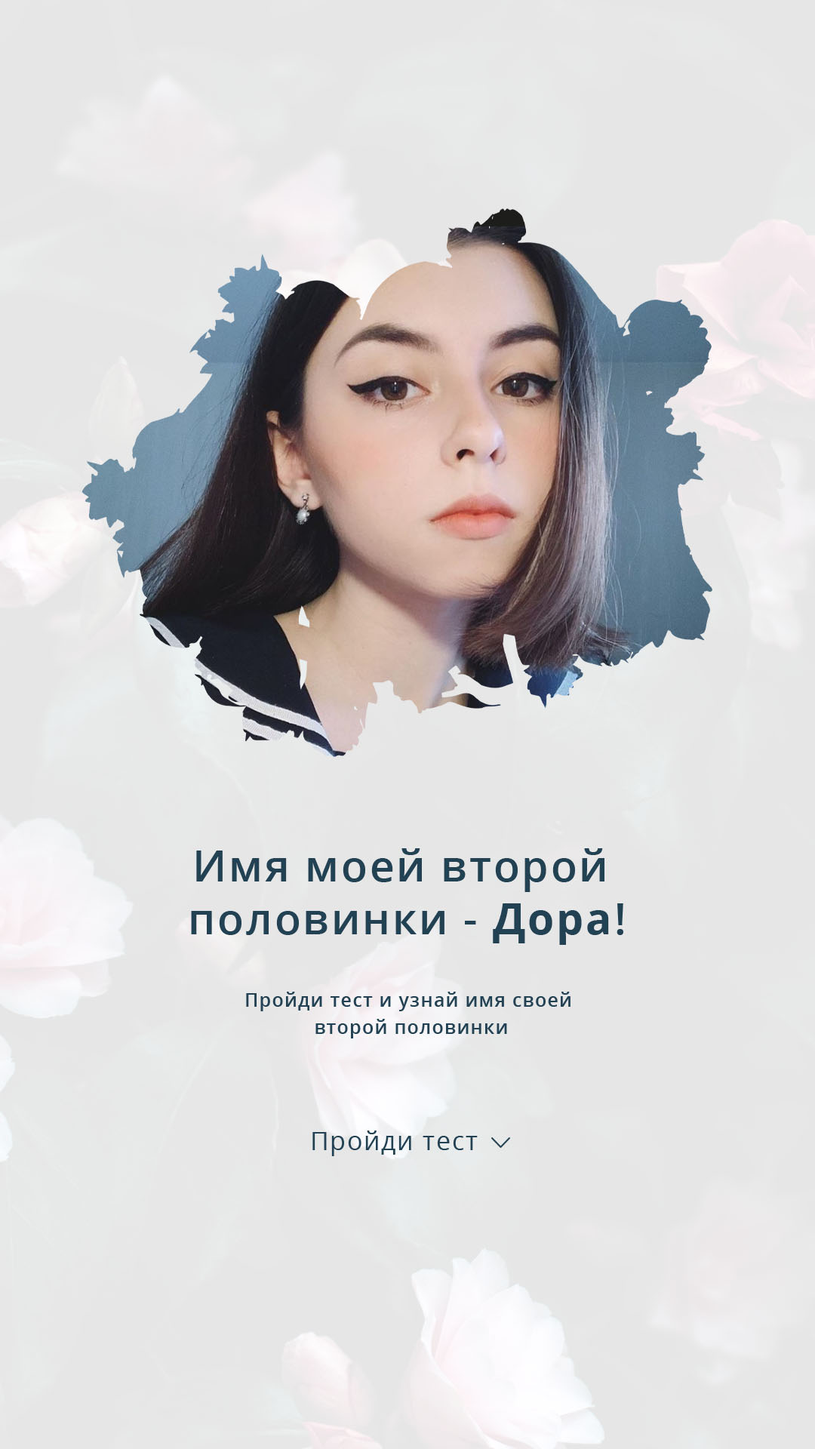
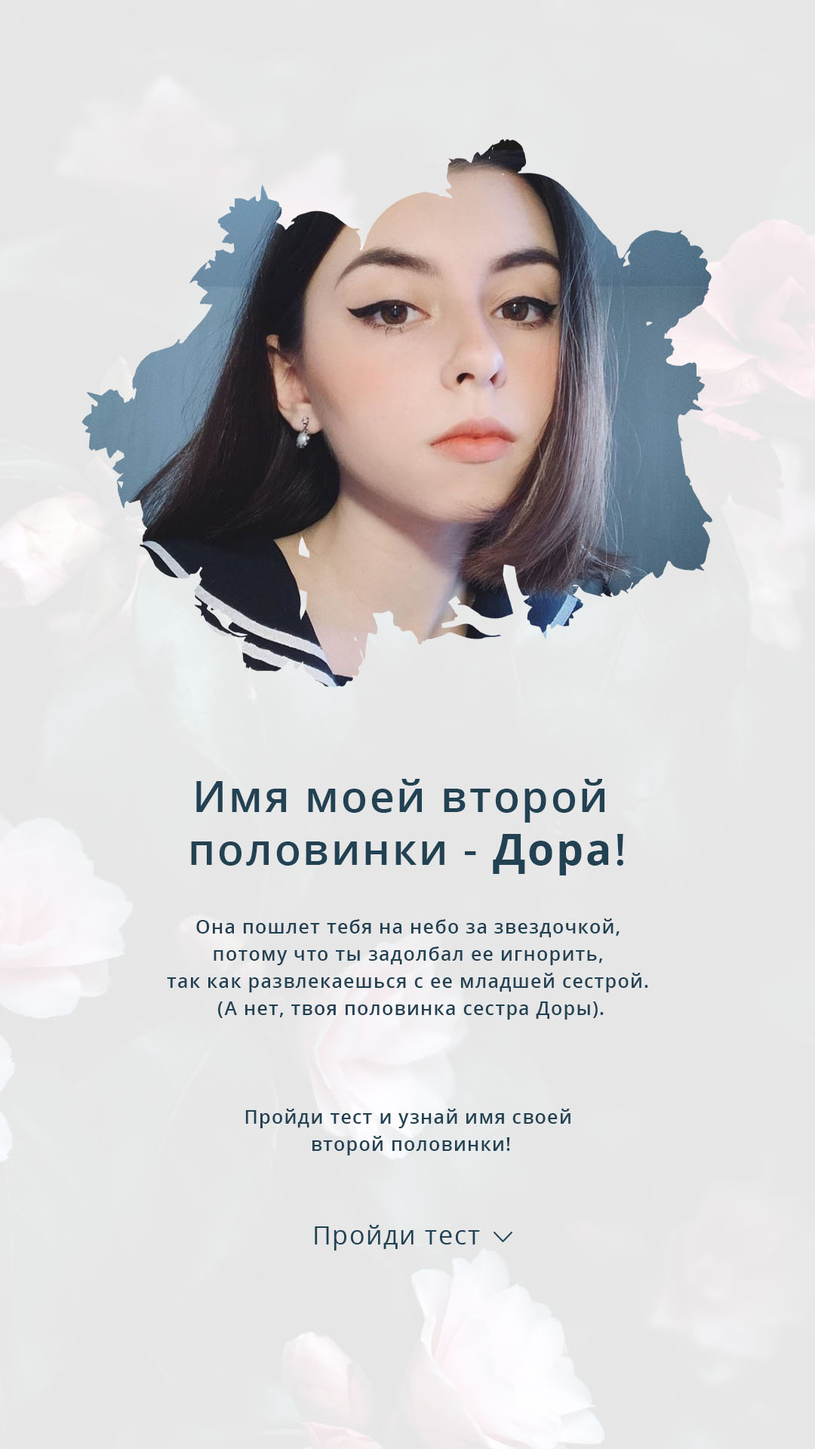
Updates

diff --git a/static/js/main.09a9d364.chunk.js b/static/js/main.09a9d364.chunk.js
@@ -1,0 +1,2 @@
+(this["webpackJsonpmini-app"]=this["webpackJsonpmini-app"]||[]).push([[0],{108:function(e,t,a){e.exports=a.p+"static/media/2.1cb0b479.png"},109:function(e,t,a){e.exports=a.p+"static/media/3.79a9798c.png"},110:function(e,t,a){e.exports=a.p+"static/media/4.f338b19d.png"},111:function(e,t,a){e.exports=a.p+"static/media/5.77c213ab.png"},112:function(e,t,a){e.exports=a.p+"static/media/7.88c06081.png"},113:function(e,t,a){e.exports=a.p+"static/media/8.d15ea79e.png"},114:function(e,t,a){e.exports=a.p+"static/media/9.eaa9397a.png"},115:function(e,t,a){e.exports=a.p+"static/media/10.3b675a64.png"},116:function(e,t,a){e.exports=a.p+"static/media/1.b21a2ad8.png"},117:function(e,t,a){e.exports=a.p+"static/media/2.a05df0da.png"},118:function(e,t,a){e.exports=a.p+"static/media/3.ac7e4885.png"},119:function(e,t,a){e.exports=a.p+"static/media/4.008d50be.png"},120:function(e,t,a){e.exports=a.p+"static/media/5.93e093c6.png"},121:function(e,t,a){e.exports=a.p+"static/media/6.961bd0a5.png"},122:function(e,t,a){e.exports=a.p+"static/media/7.35e4d8bc.png"},123:function(e,t,a){e.exports=a.p+"static/media/8.e44cd32c.png"},124:function(e,t,a){e.exports=a.p+"static/media/9.ad8ff529.png"},125:function(e,t,a){e.exports=a.p+"static/media/10.704f9750.png"},126:function(e,t,a){e.exports=a.p+"static/media/11.1f82610f.png"},127:function(e,t,a){e.exports=a.p+"static/media/12.f4ac77f5.png"},128:function(e,t,a){e.exports=a.p+"static/media/13.ce20b29d.png"},129:function(e,t,a){e.exports=a.p+"static/media/14.f66d5e0e.png"},130:function(e,t,a){e.exports=a.p+"static/media/15.95fd2ea9.png"},131:function(e,t,a){e.exports=a.p+"static/media/start.94aeea7c.png"},213:function(e,t,a){e.exports=a(312)},291:function(e,t,a){},304:function(e,t,a){e.exports=a.p+"static/media/6.a72db5b7.png"},312:function(e,t,a){"use strict";a.r(t);a(214),a(240),a(242),a(243),a(245),a(246),a(247),a(248),a(249),a(250),a(251),a(252),a(254),a(255),a(256),a(257),a(258),a(259),a(260),a(261),a(262),a(263),a(265),a(266),a(267),a(268),a(269),a(270),a(271),a(272),a(273),a(274),a(275),a(276),a(277),a(278),a(279),a(280),a(281),a(282);var n=a(0),r=a.n(n),i=a(102),c=a.n(i),o=a(48),s=a(21),l=a.n(s),m=a(134),u=a.n(m),p=(a(290),a(291),a(33)),f=a.n(p),d=a(47),g=a(103),h=a(104),x=a(136),v=a(135),b=a(36),y=a(68),_=a.n(y),E=a(108),k=a.n(E),w=a(109),S=a.n(w),C=a(110),A=a.n(C),N=a(111),O=a.n(N),j=(a(304),a(112)),z=a.n(j),T=a(113),G=a.n(T),I=a(114),R=a.n(I),M=a(115),F=a.n(M),P=a(116),D=a.n(P),K=a(117),q=a.n(K),V=a(118),W=a.n(V),B=a(119),U=a.n(B),J=a(120),L=a.n(J),Y=a(121),H=a.n(Y),$=a(122),Q=a.n($),X=a(123),Z=a.n(X),ee=a(124),te=a.n(ee),ae=a(125),ne=a.n(ae),re=a(126),ie=a.n(re),ce=a(127),oe=a.n(ce),se=a(128),le=a.n(se),me=a(129),ue=a.n(me),pe=a(130),fe=a.n(pe),de=a(69),ge=a.n(de),he=a(131),xe=a.n(he),ve=a(15),be=a.n(ve),ye=a(37),_e=a.n(ye),Ee=a(70),ke=a.n(Ee),we=a(41),Se=a.n(we);Object.defineProperty(Object.prototype,"randElement",{value:function(){return this[Math.floor(Math.random()*this.length)]}});var Ce=function(e){Object(x.a)(a,e);var t=Object(v.a)(a);function a(e){var n;return Object(g.a)(this,a),(n=t.call(this,e)).state={step:0,gender:0,answer:0,selected_charaster:0,next_button_active:0,share_in_story:0},n.result_charasters={1:{image:D.a,name:"\u0414\u043e\u0440\u0430",desc:"\u041e\u043d\u0430 \u043f\u043e\u0448\u043b\u0435\u0442 \u0442\u0435\u0431\u044f \u043d\u0430 \u043d\u0435\u0431\u043e \u0437\u0430 \u0437\u0432\u0435\u0437\u0434\u043e\u0447\u043a\u043e\u0439, \u043f\u043e\u0442\u043e\u043c\u0443 \u0447\u0442\u043e \u0442\u044b \u0437\u0430\u0434\u043e\u043b\u0431\u0430\u043b \u0435\u0435 \u0438\u0433\u043d\u043e\u0440\u0438\u0442\u044c, \u0442\u0430\u043a \u043a\u0430\u043a \u0440\u0430\u0437\u0432\u043b\u0435\u043a\u0430\u0435\u0448\u044c\u0441\u044f \u0441 \u0435\u0435 \u043c\u043b\u0430\u0434\u0448\u0435\u0439 \u0441\u0435\u0441\u0442\u0440\u043e\u0439. (\u0410 \u043d\u0435\u0442, \u0442\u0432\u043e\u044f \u043f\u043e\u043b\u043e\u0432\u0438\u043d\u043a\u0430 \u0441\u0435\u0441\u0442\u0440\u0430 \u0414\u043e\u0440\u044b)."},2:{image:q.a,name:"\u041b\u0435\u0440\u0430",desc:"\u0423 \u0432\u0430\u0441 \u0441\u043b\u0443\u0447\u0438\u0442\u0441\u044f \u0431\u0435\u0437\u043e\u043f\u0430\u0441\u043d\u044b\u0439 \u0441\u0435\u043a\u0441, \u043d\u043e \u043a\u0430\u043f\u0435\u043b\u044c\u043a\u0430 \u0434\u043e\u0439\u0434\u0435\u0442 \u0434\u043e \u043f\u0440\u0435\u0434\u0435\u043b\u0430. \u041d\u0438 \u043e \u0447\u0435\u043c \u043d\u0435 \u0436\u0430\u043b\u0435\u0439 \u0438 \u043b\u044e\u0431\u0438 \u043f\u0440\u043e\u0441\u0442\u043e \u0442\u0430\u043a."},3:{image:W.a,name:"\u041f\u043e\u043b\u0438\u043d\u0430",desc:"\u041e\u043d\u0430 \u0431\u0443\u0434\u0435\u0442 \u0432\u0435\u0440\u0438\u0442\u044c, \u0447\u0442\u043e \u0433\u0434\u0435-\u0442\u043e \u0436\u0438\u0432\u0435\u0442 \u043b\u044e\u0431\u043e\u0432\u044c, \u0432\u0435\u0434\u044c \u043d\u0430\u0441 \u043c\u0438\u043b\u043b\u0438\u043e\u043d\u044b. \u041e\u043d\u0430 \u0443\u0432\u0438\u0434\u0438\u0442 \u043d\u0435\u0431\u043e \u0432 \u0442\u0432\u043e\u0438\u0445 \u0433\u043b\u0430\u0437\u0430\u0445, \u043d\u043e \u0442\u044b \u043d\u0435 \u0437\u0430\u0445\u043e\u0447\u0435\u0448\u044c \u043f\u0440\u044b\u0433\u0430\u0442\u044c \u0440\u0430\u0434\u0438 \u043d\u0435\u0435 \u0432\u044b\u0448\u0435 \u0433\u043e\u043b\u043e\u0432\u044b \u0438 \u043e\u043d\u0430 \u043d\u0435 \u0441\u0442\u0430\u043d\u0435\u0442 \u0442\u0435\u0431\u044f \u0431\u043e\u043b\u044c\u0448\u0435 \u0436\u0434\u0430\u0442\u044c. \u041e\u043d\u0430 \u043f\u043e\u0439\u043c\u0435\u0442, \u0447\u0442\u043e \u0432\u044b \u043d\u0435 \u043f\u0430\u0440\u0430, \u0432\u0435\u0434\u044c \u0432\u043e \u0432\u0441\u0435\u0445 \u0442\u0432\u043e\u0438\u0445 \u0441\u043b\u043e\u0432\u0430\u0445 \u0432\u043e\u0434\u0430."},4:{image:U.a,name:"\u041d\u0430\u0434\u0435\u0436\u0434\u0430",desc:"\u041f\u043e\u0441\u0442\u0443\u0447\u0438\u0442\u0441\u044f \u0432 \u0434\u043e\u043c \u043d\u043e\u0447\u044c \u043d\u0435\u0437\u0432\u0430\u043d\u0430\u044f, \u0432\u043e\u0442 \u043e\u043d\u0430 \u043b\u044e\u0431\u043e\u0432\u044c \u043e\u043a\u0430\u044f\u043d\u043d\u0430\u044f. \u0423 \u0446\u0435\u0440\u043a\u0432\u0438 \u0431\u0443\u0434\u0435\u0442 \u0441\u0442\u043e\u044f\u0442\u044c \u043a\u0430\u0440\u0435\u0442\u0430 \u0438 \u0442\u044b \u0443\u0432\u0438\u0434\u0438\u0448\u044c, \u043a\u0430\u043a \u043e\u043d\u0430 \u0431\u0443\u0434\u0435\u0442 \u0441\u043f\u0443\u0441\u043a\u0430\u0442\u044c \u0441 \u0433\u043e\u0440\u043e\u0447\u043a\u0438 \u043a\u0443\u0431\u0430\u0440\u0435\u043c, \u043f\u043e\u0442\u043e\u043c\u0443 \u0447\u0442\u043e \u043d\u0430\u043f\u0438\u043b\u0430\u0441\u044f \u043f\u044c\u044f\u043d\u0430 \u0438 \u043d\u0435 \u043c\u043e\u0436\u0435\u0442 \u0434\u043e\u0439\u0442\u0438 \u0434\u043e \u0434\u043e\u043c\u0430. \u0422\u044b \u0437\u0430\u0431\u0435\u0440\u0435\u0448\u044c \u0435\u0435 \u043a \u0441\u0435\u0431\u0435 \u043d\u0430 \u0431\u0435\u043b\u043e\u043c \u043a\u043e\u043d\u0435 \u0438 \u043d\u0430\u043a\u0443\u0440\u0438\u0448\u044c \u0434\u0443\u0440\u043c\u0430\u043d-\u0442\u0440\u0430\u0432\u043e\u0439."},5:{image:L.a,name:"\u041a\u043b\u0430\u0432\u0430",desc:"\u0422\u044b \u0441\u0442\u0430\u043d\u0435\u0448\u044c \u0434\u043b\u044f \u043d\u0435\u0435 \u043a\u0440\u0430\u0448\u0435\u043c \u0438 \u0437\u0430\u0435\u0439, \u043d\u043e \u0442\u0435\u0431\u0435 \u043f\u043e\u0445, \u0432\u0435\u0434\u044c \u0447\u0435\u043c \u043c\u0435\u043d\u044c\u0448\u0435 \u0431\u0430\u0431\u0443 \u043b\u044e\u0431\u0438\u0448\u044c, \u0431\u043e\u043b\u044c\u0448\u0435 \u043d\u0440\u0430\u0432\u0438\u0448\u044c\u0441\u044f \u0442\u044b \u0435\u0439. \u041e\u043d\u0430 \u0431\u0443\u0434\u0435\u0442 \u0434\u0443\u043c\u0430\u0442\u044c, \u0447\u0442\u043e \u0442\u044b \u0435\u0435 \u043f\u043e\u043b\u043e\u0432\u0438\u043d\u0430, \u043f\u043e\u0441\u043b\u0435 \u0447\u0435\u0433\u043e \u0432\u044b \u043d\u0430\u0433\u0440\u0435\u0448\u0438\u0442\u0435 \u0438 \u043d\u0430\u0447\u043d\u0435\u0442\u0435 \u0432\u0441\u0435 \u0437\u0430\u043d\u043e\u0432\u043e. \u041d\u043e \u043e\u043d\u0430 \u043f\u043e\u0439\u043c\u0435\u0442, \u0447\u0442\u043e \u0432\u043b\u044e\u0431\u0438\u043b\u0430\u0441\u044c \u0432 \u043c\u0443\u0434\u043e\u043a\u0430 \u0438 \u043f\u043e\u043a\u0438\u043d\u0435\u0442 \u0447\u0430\u0442."},6:{image:H.a,name:"\u041b\u0435\u0445\u0430",desc:"\u0421\u0430\u0439\u043e\u043d\u0430\u0440\u0430\u0431\u043e\u0439 \u043f\u043e\u0434\u043a\u0430\u0442\u0438\u0442 \u043a \u0442\u0435\u0431\u0435 \u043d\u0430 \u0441\u0432\u043e\u0435\u043c \u043a\u0430\u0434\u0438\u043b\u0430\u043a\u0435. \u041e\u043d \u0437\u0430\u043b\u0435\u0442\u0438\u0442 \u043a \u0442\u0435\u0431\u0435 \u0434\u043e\u043c\u043e\u0439, \u043f\u043e\u0440\u0432\u0435\u0442 \u043d\u0430 \u0442\u0435\u0431\u0435 \u0434\u0436\u0438\u043d\u0441\u044b, \u043f\u0440\u043e\u043a\u0440\u0443\u0442\u0438\u0442 \u0442\u0435\u0431\u044f \u043d\u0430 360, \u0438 \u0443 \u0432\u0430\u0441 \u0440\u043e\u0434\u0438\u0442\u0441\u044f \u0440\u0435\u0431\u0435\u043d\u043e\u043a, \u0440\u043e\u0436\u0434\u0435\u043d\u043d\u044b\u0439 \u0441\u0438\u044f\u0442\u044c."},7:{image:Q.a,name:"\u0421\u0435\u0440\u0435\u0436\u0430",desc:"\u041f\u043e\u0434 \u0431\u0435\u0440\u0435\u0437\u043e\u0439 \u0432 \u043d\u043e\u0432\u044b\u0439 \u0433\u043e\u0434 \u043e\u043d \u0441\u043f\u0440\u043e\u0441\u0438\u0442 \u0443 \u0442\u0435\u0431\u044f \u0448\u0435\u043f\u043e\u0442\u043e\u043c: *\u0417\u0430\u0447\u0435\u043c \u043f\u0440\u0438\u0434\u0443\u043c\u0430\u043b\u0438 \u043b\u044e\u0431\u043e\u0432\u044c?*. \u0415\u0433\u043e \u0441\u043b\u043e\u0432\u0430 \u043f\u0440\u043e\u043d\u0438\u043a\u043d\u0443\u0442 \u0442\u0435\u0431\u0435 \u0432 \u0441\u0430\u043c\u043e\u0435 \u0441\u0435\u0440\u0434\u0446\u0435, \u0432\u0435\u0434\u044c \u043e\u043d \u043d\u0435 \u0431\u043e\u0438\u0442\u0441\u044f \u043f\u043e\u0441\u0442\u0440\u043e\u0438\u0442\u044c \u0438\u0434\u0435\u0430\u043b\u044c\u043d\u044b\u0439 \u043c\u0438\u0440 \u0441 \u0442\u043e\u0431\u043e\u0439."},8:{image:Z.a,name:"\u0413\u0440\u0438\u0433\u043e\u0440\u0438\u0439",desc:"\u0422\u044b \u0441\u0442\u0430\u043d\u0435\u0448\u044c \u0435\u0433\u043e \u0432\u043e\u0434\u043e\u043f\u0430\u0434\u043e\u043c \u043f\u043e\u0441\u043b\u0435 \u0440\u044e\u043c\u043a\u0438 \u043d\u0430 \u0441\u0442\u043e\u043b\u0435. \u041f\u043e\u0441\u043b\u0435 \u0447\u0435\u0433\u043e \u043e\u043d \u0441\u0442\u0430\u043d\u0435\u0442 \u0441\u0430\u043c\u044b\u043c \u0441\u0447\u0430\u0441\u0442\u043b\u0438\u0432\u044b\u043c \u0438 \u043f\u043e\u0439\u043c\u0435\u0442, \u0447\u0442\u043e \u044d\u0442\u043e \u0435\u0433\u043e \u0441\u0430\u043c\u044b\u0439 \u043b\u0443\u0447\u0448\u0438\u0439 \u0434\u0435\u043d\u044c. \u0413\u0440\u0438\u0448\u043a\u0430 \u0441\u043a\u0430\u0436\u0435\u0442 \u0442\u0435\u0431\u0435 \u0441\u043f\u0430\u0441\u0438\u0431\u043e, \u043f\u043e\u0441\u043b\u0435 \u0447\u0435\u0433\u043e \u0443\u0439\u0434\u0435\u0442 \u043a\u0440\u0430\u0441\u0438\u0432\u043e \u043f\u043e \u0430\u043d\u0433\u043b\u0438\u0439\u0441\u043a\u0438\u0439 \u0432 \u041b\u043e\u043d\u0434\u043e\u043d. \u0422\u044b \u043f\u043e\u0434\u043d\u0438\u043c\u0435\u0448\u044c \u0440\u0443\u043a\u0438 \u0438 \u043f\u043e\u0439\u043c\u0435\u0448\u044c \u0447\u0442\u043e \u043d\u0430\u0442\u0432\u043e\u0440\u0438\u043b\u0430."},9:{image:te.a,name:"\u0416\u0435\u043d\u044f",desc:"\u0412\u044b \u0431\u0443\u0434\u0435\u0442\u0435 \u0434\u0440\u0443\u0437\u044c\u044f\u043c\u0438, \u043d\u043e \u043f\u043e\u0441\u043b\u0435 \u0442\u043e\u0433\u043e \u043a\u0430\u043a \u043f\u043e\u043a\u0443\u0440\u0438\u0442\u0435, \u0442\u044b \u043f\u043e\u0439\u043c\u0435\u0448\u044c, \u0447\u0442\u043e \u043e\u043d \u0434\u043b\u044f \u0442\u0435\u0431\u044f \u0441\u0430\u043c\u044b\u0439 \u0434\u043e\u0440\u043e\u0433\u043e\u0439 \u0447\u0435\u043b\u043e\u0432\u0435\u043a \u0438 \u0442\u044b \u043b\u044e\u0431\u0438\u0448\u044c. \u0412\u0435\u0434\u044c \u043a\u043e\u043c\u0443 \u0442\u044b \u0437\u0432\u043e\u043d\u0438\u0448\u044c, \u043a\u043e\u0433\u0434\u0430 \u0442\u044b \u0432 \u0433\u043e\u0432\u043d\u043e?"},10:{image:ne.a,name:"\u041c\u0430\u043a\u0441",desc:"\u0422\u044b \u0441\u0442\u0430\u043d\u0435\u0448\u044c \u0435\u0433\u043e \u043c\u0430\u043b\u043e\u043b\u0435\u0442\u043a\u043e\u0439 \u0438 \u043f\u043e\u0439\u0434\u0435\u0448\u044c \u043d\u0430 \u0448\u0430\u043d\u0442\u0430\u0436, \u043f\u043e\u0442\u043e\u043c\u0443 \u0447\u0442\u043e \u0435\u0441\u0442\u044c \u0434\u0432\u0430 \u0442\u0438\u043f\u0430 \u043b\u044e\u0434\u0435\u0439. \u041e\u043d \u0443\u0439\u0434\u0435\u0442 \u043e\u0442 \u0441\u0432\u043e\u0435\u0439 \u0436\u0435\u043d\u044b \u0438 \u0432\u044b \u0431\u0443\u0434\u0435\u0442\u0435 \u043b\u043e\u0432\u0438\u0442\u044c \u044d\u043d\u0434\u043e\u0440\u0444\u0438\u043d\u044b, \u043f\u043e\u0441\u043b\u0435 \u0447\u0435\u0433\u043e \u0443\u0439\u0434\u0435\u0442\u0435 \u0432 \u043c\u0430\u043b\u0438\u043d\u043e\u0432\u044b\u0439 \u0437\u0430\u043a\u0430\u0437."},11:{image:ie.a,name:"\u0414\u043c\u0438\u0442\u0440\u0438\u0439",desc:"\u041e\u043d \u0431\u0443\u0434\u0435\u0442 \u0432\u044b\u0433\u043b\u044f\u0434\u0435\u0442\u044c \u043d\u043e\u0447\u043d\u044b\u043c \u0445\u0443\u043b\u0438\u0433\u0430\u043d\u043e\u043c, \u0438 \u0442\u044b \u0431\u0443\u0434\u0435\u0448\u044c \u0434\u043b\u044f \u043d\u0435\u0433\u043e \u043d\u043e\u043c\u0435\u0440\u043e\u043c \u043e\u0434\u0438\u043d. \u0423 \u0432\u0430\u0441 \u0441\u043b\u0443\u0447\u0438\u0442\u0441\u044f \u043b\u044e\u0431\u043e\u0444\u044c-\u0441\u0443\u043a\u0430. \u041e\u043d \u043f\u043e\u043f\u0440\u043e\u0441\u0438\u0442 \u0442\u0435\u0431\u044f \u043d\u0435 \u043c\u043e\u043b\u0447\u0430\u0442\u044c \u0438 \u0432 \u043a\u043e\u043d\u0446\u0435 \u0434\u043e\u0431\u0430\u0432\u0438\u0442 \u0431\u0435\u043b\u0438\u0432\u0435. \u0422\u044b \u043d\u0430\u0432\u0441\u0435\u0433\u0434\u0430 \u043e\u0441\u0442\u0430\u043d\u0435\u0448\u044c\u0441\u044f \u0432 \u0435\u0433\u043e \u043f\u0430\u043c\u044f\u0442\u0438."},12:{image:oe.a,name:"\u0412\u0430\u043b\u0435\u0440\u0438\u0439",desc:"\u0415\u0441\u043b\u0438 \u0442\u044b \u0446\u0438\u0433\u0430\u043d\u043a\u0430 \u0421\u0435\u0439\u0440\u0430 \u0438 \u0443 \u0442\u0435\u0431\u044f \u0435\u0441\u0442\u044c \u0442\u0435\u043a\u0438\u043b\u0430-\u043b\u044e\u0431\u043e\u0444\u044c - \u0442\u044b \u0441\u0434\u0435\u043b\u0430\u0435\u0448\u044c \u0441\u0442\u043e \u0448\u0430\u0433\u043e\u0432 \u043d\u0430\u0437\u0430\u0434 \u0442\u0438\u0445\u043e \u043d\u0430 \u043f\u0430\u043b\u044c\u0446\u0430\u0445, \u0438 \u043a\u0440\u0430\u0441\u0438\u0432\u043e \u0432\u043e\u0439\u0434\u0435\u0448\u044c \u0432 \u0435\u0433\u043e \u0433\u0440\u0435\u0448\u043d\u0443\u044e \u0436\u0438\u0437\u043d\u044c."},13:{image:le.a,name:"\u0415\u0433\u043e\u0440\u043a\u0430",desc:"\u0412\u044b \u0432\u0441\u0442\u0440\u0435\u0442\u0438\u0442\u0435\u0441\u044c \u043d\u0430 \u0431\u0435\u0440\u0435\u0433\u0443 \u0438 \u043e\u043d \u043f\u043e\u0439\u043c\u0435\u0442, \u0447\u0442\u043e \u0442\u044b \u0434\u0435\u0432\u043e\u0447\u043a\u0430 \u0441 \u043a\u0430\u0440\u0442\u0438\u043d\u043a\u0438. \u041f\u043e\u0441\u043b\u0435 \u0447\u0435\u0433\u043e \u043e\u043d \u043f\u043e\u0442\u0440\u0430\u0442\u0438\u0442 \u043d\u0430 \u0442\u0435\u0431\u044f \u0441\u0432\u043e\u0439 \u0441\u0430\u043c\u044b\u0439 \u043b\u0443\u0447\u0448\u0438\u0439 \u0434\u0435\u043d\u044c, \u0438 \u043e\u043d \u043f\u043e\u0442\u0440\u0430\u0442\u0438\u0442 \u043d\u0430 \u0442\u0435\u0431\u044f \u0441\u0432\u043e\u044e \u043b\u0443\u0447\u0448\u0443\u044e \u043d\u043e\u0447\u044c, \u043f\u043e\u0442\u0440\u0430\u0442\u0438\u0442 \u0432\u0441\u0435, \u0447\u0442\u043e\u0431\u044b \u0442\u0435\u0431\u044f \u0440\u0430\u0437\u0434\u0435\u0442\u044c..."},14:{image:ue.a,name:"\u0410\u043b\u0438\u0448\u0435\u0440",desc:"\u0412\u044b \u0432\u0441\u0442\u0440\u0435\u0442\u0438\u0442\u0435\u0441\u044c \u0432 \u043b\u0435\u0441\u0443 \u043d\u0430 \u043f\u0438\u043a\u043d\u0438\u043a\u0435 \u0441 \u0434\u0440\u0443\u0437\u044c\u044f\u043c\u0438, \u0433\u0434\u0435 \u0431\u0443\u0434\u0435\u0442\u0435 \u043e\u0431\u0441\u0443\u0436\u0434\u0430\u0442\u044c \u043f\u043e\u043b\u0438\u0442\u0438\u0447\u0435\u0441\u043a\u0438\u0435 \u0432\u043e\u043f\u0440\u043e\u0441\u044b. \u0423 \u0432\u0430\u0441 \u0432\u043e\u0437\u043d\u0438\u043a\u043d\u0443\u0442 \u0440\u0430\u0437\u043d\u043e\u0433\u043b\u0430\u0441\u0438\u044f, \u0432\u044b \u0431\u0443\u0434\u0438\u0442\u0435 \u0440\u0430\u0437\u0433\u043e\u0432\u0430\u0440\u0438\u0432\u0430\u0442\u044c \u043d\u0430 \u043f\u043e\u0432\u044b\u0448\u0435\u043d\u043d\u044b\u0445 \u0442\u043e\u043d\u0430\u0445, \u043f\u043e\u0441\u043b\u0435 \u0447\u0435\u0433\u043e \u0432\u0440\u0430\u0436\u0434\u0430 \u043f\u0435\u0440\u0435\u0439\u0434\u0435\u0442 \u0432 \u0441\u0438\u043c\u043f\u0430\u0442\u0438\u044e, \u0442.\u043a. \u0442\u044b \u043f\u043e\u0439\u043c\u0435\u0448\u044c, \u0447\u0442\u043e \u044d\u0442\u043e \u0442\u0432\u043e\u0439 \u0447\u0435\u043b\u043e\u0432\u0435\u043a, \u043f\u043e\u0442\u043e\u043c\u0443 \u043e\u043d \u0431\u0443\u0434\u0435\u0442 \u0441\u0435\u0431\u044f \u0432\u0435\u0441\u0442\u0438 \u043d\u0430\u0441\u0442\u043e\u0439\u0447\u0438\u0432\u043e \u0438 \u043c\u0443\u0436\u0435\u0441\u0442\u0432\u0435\u043d\u043d\u043e."},15:{image:fe.a,name:"\u0412\u043b\u0430\u0434",desc:"\u0422\u044b \u0431\u044b\u043b\u0430 \u0441\u0430\u043c\u043e\u0439 \u043b\u0443\u0447\u0448\u0435\u0439 \u0434\u0435\u0432\u043e\u0447\u043a\u043e\u0439 \u0432 \u043a\u043b\u0430\u0441\u0441\u0435 \u0438 \u0434\u043b\u044f \u043d\u0435\u0433\u043e \u0441\u0442\u0430\u043b\u0430 \u043f\u0440\u043e\u0441\u0442\u043e \u0441\u0443\u043f\u0435\u0440! \u041d\u043e \u0442\u044b \u043d\u0438\u0447\u0435\u0433\u043e \u043d\u0435 \u043f\u043e\u043d\u044f\u043b\u0430 \u0438 \u043e\u0441\u0442\u0430\u043b\u0430\u0441\u044c \u0435\u0433\u043e \u0434\u0435\u0432\u043e\u0447\u043a\u043e\u0439-\u043c\u0435\u0447\u0442\u043e\u0439."}},n}return Object(h.a)(a,[{key:"setGender",value:function(e){this.setState({gender:e,next_button_active:1});var t={1:[5,4,3,2,1],2:[6,7,8,9,15,14,13,12,11,10]}[e].randElement();this.setState({selected_charaster:t})}},{key:"setAnswer",value:function(e){this.setState({answer:e,next_button_active:1})}},{key:"nextStep",value:function(){var e=Object(d.a)(f.a.mark((function e(){var t,a,n,r;return f.a.wrap((function(e){for(;;)switch(e.prev=e.next){case 0:if(t=this.state,a=t.step,n=t.answer,11!==(r=a+1)||1!==n){e.next=5;break}return e.next=5,l.a.send("VKWebAppAllowMessagesFromGroup",{group_id:197071746,key:1});case 5:12===r?this.props.ShowModal("GROUP_CARD"):this.setState({answer:0,step:r,next_button_active:0});case 6:case"end":return e.stop()}}),e,this)})));return function(){return e.apply(this,arguments)}}()},{key:"restart",value:function(){1===this.state.share_in_story||this.props.ShowModal("STORY_CARD"),this.resetState()}},{key:"resetState",value:function(){this.setState({gender:0,answer:0,step:0,next_button_active:0,share_in_story:0})}},{key:"componentDidUpdate",value:function(){var e=Object(d.a)(f.a.mark((function e(t,a,n){var r,i,c,o;return f.a.wrap((function(e){for(;;)switch(e.prev=e.next){case 0:if(t===this.props){e.next=15;break}if(null===this.props.shareInStory){e.next=9;break}if(1!==this.props.shareInStory){e.next=7;break}return e.next=5,this.share_result(1);case 5:e.next=8;break;case 7:this.resetState();case 8:this.props.setShareInStory(null);case 9:if(null===this.props.followOnPublic){e.next=15;break}if(1!==this.props.followOnPublic){e.next=13;break}return e.next=13,l.a.send("VKWebAppJoinGroup",{group_id:197071746}).then((function(){})).catch((function(){}));case 13:this.setState({answer:0,step:12,next_button_active:0}),this.props.setFollowOnPublic(null);case 15:a!==this.state&&(r=this.state,i=r.step,c=r.selected_charaster,o=this.result_charasters,11===i&&this.setGradient(o[c].color));case 16:case"end":return e.stop()}}),e,this)})));return function(t,a,n){return e.apply(this,arguments)}}()},{key:"componentDidMount",value:function(){l.a.send("VKWebAppInit")}},{key:"hexToRgbA",value:function(e){var t,a=arguments.length>1&&void 0!==arguments[1]?arguments[1]:1;if(/^#([A-Fa-f0-9]{3}){1,2}$/.test(e))return 3===(t=e.substring(1).split("")).length&&(t=[t[0],t[0],t[1],t[1],t[2],t[2]]),"rgba("+[(t="0x"+t.join(""))>>16&255,t>>8&255,255&t].join(",")+","+a+")"}},{key:"setGradient",value:function(e){var t="linear-gradient(to bottom, rgba(9, 9, 121, 0) 0%, "+this.hexToRgbA(e,.6)+" 38%, "+this.hexToRgbA(e)+" 90%)";t="<style>.question_box:after {background-image: "+t+" !important; };</style>",document.getElementById("gradient_style").innerHTML=t}},{key:"changeAge",value:function(e){parseInt(e.target.value)>0?this.setState({next_button_active:1}):this.setState({next_button_active:0})}},{key:"share_result",value:function(){var e=Object(d.a)(f.a.mark((function e(){var t,a=this,n=arguments;return f.a.wrap((function(e){for(;;)switch(e.prev=e.next){case 0:return t=n.length>0&&void 0!==n[0]?n[0]:0,this.props.platform,e.next=4,l.a.send("VKWebAppShowStoryBox",{background_type:"image",url:"".concat(window.location.origin,"/VKMA_Name/results/").concat(this.state.selected_charaster,".jpg"),locked:!0,attachment:{text:"go_to",type:"url",url:"https://vk.com/app7569705"}}).then((function(){t?a.setState({gender:0,answer:0,step:0,next_button_active:0,share_in_story:1}):a.setState({share_in_story:1})})).catch((function(){t&&a.resetState()}));case 4:case"end":return e.stop()}}),e,this)})));return function(){return e.apply(this,arguments)}}()},{key:"render",value:function(){var e=this,t=this.state,a=t.gender,n=t.step,i=t.answer,c=t.selected_charaster,o=t.next_button_active,s=this.result_charasters,l=r.a.createElement("div",{className:"div-answer-buttons"},r.a.createElement(be.a,{style:{width:"100%",backgroundColor:"#224254",color:"#ffffff"},size:"l",mode:1===i?"overlay_primary":"overlay_outline",onClick:function(){return e.setAnswer(1)}},"\u0414\u0430"),r.a.createElement(be.a,{style:{width:"100%",marginTop:"1rem",backgroundColor:"#224254",color:"#ffffff"},size:"l",mode:2===i?"overlay_primary":"overlay_outline",onClick:function(){return e.setAnswer(2)}},"\u041d\u0435\u0442")),m={1:{image:_.a,text:"\u0422\u044b \u043f\u0430\u0440\u0435\u043d\u044c \u0438\u043b\u0438 \u0434\u0435\u0432\u0443\u0448\u043a\u0430?",content:r.a.createElement("div",{className:"div-answer-buttons"},r.a.createElement(be.a,{style:{width:"100%",backgroundColor:"#224254",color:"#ffffff"},size:"l",mode:1===a?"overlay_primary":"overlay_outline",onClick:function(){return e.setGender(1)}},"\u041f\u0430\u0440\u0435\u043d\u044c"),r.a.createElement(be.a,{style:{width:"100%",marginTop:"1rem",backgroundColor:"#224254",color:"#ffffff"},size:"l",mode:2===a?"overlay_primary":"overlay_outline",onClick:function(){return e.setGender(2)}},"\u0414\u0435\u0432\u0443\u0448\u043a\u0430"))},2:{image:k.a,text:"\u0421\u043a\u043e\u043b\u044c\u043a\u043e \u0442\u0435\u0431\u0435 \u043b\u0435\u0442?",content:r.a.createElement(r.a.Fragment,null,r.a.createElement(Se.a,{type:"number",onChange:function(t){return e.changeAge(t)}}))},3:{image:S.a,text:"\u041a\u0442\u043e \u0442\u044b \u043f\u043e \u0433\u043e\u0440\u043e\u0441\u043a\u043e\u043f\u0443?",content:r.a.createElement(r.a.Fragment,null,r.a.createElement(Se.a,{type:"text",onChange:function(){return e.setAnswer()}}))},4:{image:A.a,text:"\u0421\u043a\u043e\u043b\u044c\u043a\u043e \u0442\u044b \u0432\u0435\u0441\u0438\u0448\u044c?",content:r.a.createElement(r.a.Fragment,null,r.a.createElement(Se.a,{type:"number",onChange:function(t){return e.changeAge(t)}}))},5:{image:O.a,text:"\u0422\u044b \u0431\u043e\u0438\u0448\u044c\u0441\u044f \u043f\u0440\u0438\u0437\u0440\u0430\u043a\u043e\u0432?",content:l},6:{image:_.a,text:"\u0422\u044b \u043f\u0440\u0435\u0434\u043f\u043e\u0447\u0438\u0442\u0430\u0435\u0448\u044c \u0444\u0430\u0441\u0442\u0444\u0443\u0434 \u0438\u043b\u0438 \u0434\u043e\u043c\u0430\u0448\u043d\u044e\u044e \u0435\u0434\u0443?",content:r.a.createElement("div",{className:"div-answer-buttons"},r.a.createElement(be.a,{style:{width:"100%",backgroundColor:"#224254",color:"#ffffff"},size:"l",mode:1===i?"overlay_primary":"overlay_outline",onClick:function(){return e.setAnswer(1)}},"\u0424\u0430\u0441\u0442\u0432\u0443\u0434"),r.a.createElement(be.a,{style:{width:"100%",marginTop:"1rem",backgroundColor:"#224254",color:"#ffffff"},size:"l",mode:2===i?"overlay_primary":"overlay_outline",onClick:function(){return e.setAnswer(2)}},"\u0414\u043e\u043c\u0430\u0448\u043d\u044e\u044e \u0435\u0434\u0443"))},7:{image:z.a,text:"\u041a\u0430\u043a\u043e\u0439 \u0442\u0432\u043e\u0439 \u043b\u044e\u0431\u0438\u043c\u044b\u0439 \u0444\u0440\u0443\u043a\u0442?",content:r.a.createElement(r.a.Fragment,null,r.a.createElement(Se.a,{type:"text",onChange:function(){return e.setAnswer()}}))},8:{image:G.a,text:"\u0412\u0435\u0440\u0438\u0448\u044c \u0432 \u043b\u044e\u0431\u043e\u0432\u044c \u0441 \u043f\u0435\u0440\u0432\u043e\u0433\u043e \u0432\u0437\u0433\u043b\u044f\u0434\u0430?",content:l},9:{image:R.a,text:"\u041c\u043e\u0436\u043d\u043e \u043b\u0438 \u043f\u0440\u043e\u0441\u0442\u0438\u0442\u044c \u0438\u0437\u043c\u0435\u043d\u0443?",content:l},10:{image:F.a,text:"\u0422\u044b \u0431\u044b \u0441\u043c\u043e\u0433 \u043f\u043e\u043b\u044e\u0431\u0438\u0442\u044c \u0447\u0435\u043b\u043e\u0432\u0435\u043a\u0430 \u0434\u0440\u0443\u0433\u043e\u0439 \u0440\u0430\u0441\u044b?",content:l},11:{}};return r.a.createElement("div",{className:"base_container"},r.a.createElement("div",{id:"gradient_style"}),0===n&&r.a.createElement("img",{className:"result-container",src:xe.a,alt:""}),0===n&&r.a.createElement("div",{className:"container"},r.a.createElement("link",{rel:"preload",href:m[1].image,as:"image"}),r.a.createElement("link",{rel:"preload",href:ge.a,as:"image"}),r.a.createElement("div",{className:"text-center p-t-2",style:{fontSize:"25px",color:"#224254"}},"\u0418\u043c\u044f \u0432\u0442\u043e\u0440\u043e\u0439 \u043f\u043e\u043b\u043e\u0432\u0438\u043d\u043a\u0438"),r.a.createElement("div",{className:"text-center p-t-2",style:{fontSize:"20px",color:"#224254"}},"\u041f\u0440\u043e\u0439\u0434\u0438 \u0442\u0435\u0441\u0442 \u0438 \u0443\u0437\u043d\u0430\u0439 \u0438\u043c\u044f \u0441\u0432\u043e\u0435\u0439 \u0432\u0442\u043e\u0440\u043e\u0439 \u043f\u043e\u043b\u043e\u0432\u0438\u043d\u043a\u0438!"),r.a.createElement("div",{className:"text-center p-t-2",style:{fontSize:"16px",color:"#fc2646"}},"@diveintothenight"),r.a.createElement(ke.a,{className:"text-center p-t-2"},r.a.createElement(be.a,{style:{backgroundColor:"#224254",color:"#ffffff"},after:r.a.createElement(_e.a,null),mode:"overlay_primary",size:"l",onClick:function(){return e.nextStep()}},"\u041f\u0440\u043e\u0439\u0442\u0438 \u0442\u0435\u0441\u0442"))),0!==n&&n<11&&r.a.createElement("div",{className:"container"},r.a.createElement("link",{rel:"preload",href:m[n+1].image,as:"image"}),r.a.createElement("div",{className:"question_box",style:{backgroundColor:m[n].box_color}},r.a.createElement("img",{src:m[n].image,alt:""}),r.a.createElement("div",{style:10===n?{marginTop:"-20px"}:{}},r.a.createElement("div",{className:"question_text text-center"},m[n].text),r.a.createElement("div",{className:"group_name text-center"},"@diveintothenight"))),r.a.createElement("div",{style:{marginTop:"1rem"}},m[n].content),r.a.createElement("div",{className:"div-center"},r.a.createElement(be.a,{style:{marginTop:"1rem",backgroundColor:"#224254",color:"#ffffff"},after:r.a.createElement(_e.a,null),size:"l",onClick:function(){e.nextStep(),e.setGradient(m[n+1].color)},disabled:!o},"\u0414\u0430\u043b\u0435\u0435"))),11===n&&r.a.createElement("div",{className:"result-container"},r.a.createElement("link",{rel:"preload",href:s[c].image,as:"image"}),r.a.createElement("div",{className:"text-center p-t-2",style:{fontSize:"25px",color:"#224254"}},"\u0422\u0435\u0441\u0442 \u043f\u0440\u043e\u0439\u0434\u0435\u043d!"),r.a.createElement(ke.a,{className:"text-center p-t-2"},r.a.createElement(be.a,{style:{backgroundColor:"#224254",color:"#ffffff"},after:r.a.createElement(_e.a,null),mode:"overlay_primary",size:"l",onClick:function(){return e.nextStep()}},"\u0423\u0437\u043d\u0430\u0442\u044c \u0440\u0435\u0437\u0443\u043b\u044c\u0442\u0430\u0442")),r.a.createElement("div",{className:"text-center p-t-2",style:{fontSize:"16px",color:"#fc2646"}},"@diveintothenight")),11===n&&r.a.createElement("img",{className:"image-result",src:ge.a,alt:""}),12===n&&r.a.createElement("div",{className:"result-container result-charaster-container"},r.a.createElement("div",{className:"question_box",style:{backgroundColor:s[c].box_color}},r.a.createElement("img",{src:s[c].image,alt:""}),r.a.createElement("div",{className:"question_text text-center"},"\u0418\u043c\u044f \u0442\u0432\u043e\u0435\u0439 \u043f\u043e\u043b\u043e\u0432\u0438\u043d\u043a\u0438 ",s[c].name,"!"),r.a.createElement("div",{className:"group_name text-center"},"\u0438\u0442\u043e\u0433")),r.a.createElement("div",{style:{marginTop:"1rem",textAlign:"center"}},s[c].desc),r.a.createElement("div",null,r.a.createElement(be.a,{style:{marginTop:"1rem",width:"100%",backgroundColor:"#224254",color:"#ffffff"},after:r.a.createElement(_e.a,null),size:"l",mode:"overlay_primary",onClick:function(){return e.share_result()}},"\u041f\u043e\u0434\u0435\u043b\u0438\u0442\u044c\u0441\u044f \u0432 \u0438\u0441\u0442\u043e\u0440\u0438\u0438"),r.a.createElement(be.a,{style:{marginTop:"1rem",width:"100%",marginBottom:"1rem`",backgroundColor:"#224254",color:"#ffffff"},after:r.a.createElement(_e.a,null),size:"l",mode:"overlay_primary",onClick:function(){return e.restart()}},"\u041f\u043e\u0432\u0442\u043e\u0440\u0438\u0442\u044c"))))}}]),a}(r.a.Component),Ae=Object(b.c)(Ce),Ne=a(132),Oe=a.n(Ne),je=a(133),ze=a.n(je),Te=function(){var e=Object(n.useState)(null),t=Object(o.a)(e,2),a=t[0],i=t[1],c=Object(n.useState)(null),s=Object(o.a)(c,2),m=s[0],p=s[1],f=Object(n.useState)(null),d=Object(o.a)(f,2),g=d[0],h=d[1];Object(n.useEffect)((function(){l.a.subscribe((function(e){var t=e.detail,a=t.type,n=t.data;if("VKWebAppUpdateConfig"===a){var r=document.createAttribute("scheme");r.value=n.scheme?n.scheme:"client_light",document.body.attributes.setNamedItem(r)}}))}),[]);var x=function(e){i(null),p(e)},v=function(e){i(null),h(e)},y=r.a.createElement(b.b,{activeModal:a,onClose:function(){i(null)}},r.a.createElement(b.a,{id:"STORY_CARD",onClose:function(){return i(null)},icon:r.a.createElement(Oe.a,{width:56,height:56}),header:"\u041f\u043e\u0434\u0435\u043b\u0438\u0442\u044c\u0441\u044f \u0440\u0435\u0437\u0443\u043b\u044c\u0442\u0430\u0442\u043e\u043c \u0432 \u0438\u0441\u0442\u043e\u0440\u0438\u0438?",actionsLayout:"vertical",actions:[{size:"xl",title:"\u0414\u0430",mode:"primary",action:function(){return x(1)}},{size:"xl",title:"\u041d\u0435\u0442",mode:"tertiary",action:function(){return x(0)}}]}),r.a.createElement(b.a,{id:"GROUP_CARD",onClose:function(){return i(null)},icon:r.a.createElement(ze.a,{mode:"default",src:"https://sun9-25.userapi.com/c852024/v852024332/7d380/_qW0ADSK_GI.jpg?ava=1",size:72}),header:"\u0410\u043d\u0438\u043c\u0435",actionsLayout:"vertical",caption:"\u041f\u043e\u0434\u043f\u0438\u0441\u0430\u0442\u044c\u0441\u044f \u043d\u0430 \u0441\u043e\u043e\u0431\u0449\u0435\u0441\u0442\u0432\u043e?",actions:[{size:"xl",title:"\u0414\u0430",mode:"primary",action:function(){return v(1)}},{size:"xl",title:"\u041d\u0435\u0442",mode:"tertiary",action:function(){return v(0)}}]}));return r.a.createElement(u.a,{activePanel:"home",modal:y},r.a.createElement(Ae,{id:"home",ShowModal:function(e){i(e)},shareInStory:m,followOnPublic:g,setShareInStory:p,setFollowOnPublic:h}))};c.a.render(r.a.createElement(r.a.Fragment,null,r.a.createElement("link",{rel:"preload",as:"image"}),r.a.createElement(Te,null)),document.getElementById("root"))},68:function(e,t,a){e.exports=a.p+"static/media/1.e5cc508d.png"},69:function(e,t,a){e.exports=a.p+"static/media/result.d1fd3ff8.png"}},[[213,1,2]]]);
+//# sourceMappingURL=main.09a9d364.chunk.js.map

diff --git a/index.html b/index.html
@@ -1,1 +1,1 @@
-<!doctype html><html lang="en"><head><meta charset="utf-8"><meta name="viewport" content="width=device-width,initial-scale=1,shrink-to-fit=no,user-scalable=no,viewport-fit=cover"><meta name="theme-color" content="#000000"><meta content="IE=Edge" http-equiv="X-UA-Compatible"><title>VK Mini App Boilerplate</title><link href="/VKMA_Name/static/css/2.1e562f28.chunk.css" rel="stylesheet"><link href="/VKMA_Name/static/css/main.4a70da68.chunk.css" rel="stylesheet"></head><body><div id="root"></div><script>!function(e){function r(r){for(var n,i,p=r[0],a=r[1],l=r[2],c=0,s=[];c<p.length;c++)i=p[c],Object.prototype.hasOwnProperty.call(o,i)&&o[i]&&s.push(o[i][0]),o[i]=0;for(n in a)Object.prototype.hasOwnProperty.call(a,n)&&(e[n]=a[n]);for(f&&f(r);s.length;)s.shift()();return u.push.apply(u,l||[]),t()}function t(){for(var e,r=0;r<u.length;r++){for(var t=u[r],n=!0,p=1;p<t.length;p++){var a=t[p];0!==o[a]&&(n=!1)}n&&(u.splice(r--,1),e=i(i.s=t[0]))}return e}var n={},o={1:0},u=[];function i(r){if(n[r])return n[r].exports;var t=n[r]={i:r,l:!1,exports:{}};return e[r].call(t.exports,t,t.exports,i),t.l=!0,t.exports}i.m=e,i.c=n,i.d=function(e,r,t){i.o(e,r)||Object.defineProperty(e,r,{enumerable:!0,get:t})},i.r=function(e){"undefined"!=typeof Symbol&&Symbol.toStringTag&&Object.defineProperty(e,Symbol.toStringTag,{value:"Module"}),Object.defineProperty(e,"__esModule",{value:!0})},i.t=function(e,r){if(1&r&&(e=i(e)),8&r)return e;if(4&r&&"object"==typeof e&&e&&e.__esModule)return e;var t=Object.create(null);if(i.r(t),Object.defineProperty(t,"default",{enumerable:!0,value:e}),2&r&&"string"!=typeof e)for(var n in e)i.d(t,n,function(r){return e[r]}.bind(null,n));return t},i.n=function(e){var r=e&&e.__esModule?function(){return e.default}:function(){return e};return i.d(r,"a",r),r},i.o=function(e,r){return Object.prototype.hasOwnProperty.call(e,r)},i.p="/VKMA_Name/";var p=this["webpackJsonpmini-app"]=this["webpackJsonpmini-app"]||[],a=p.push.bind(p);p.push=r,p=p.slice();for(var l=0;l<p.length;l++)r(p[l]);var f=a;t()}([])</script><script src="/VKMA_Name/static/js/2.50fe892b.chunk.js"></script><script src="/VKMA_Name/static/js/main.72ae3b3a.chunk.js"></script></body></html>
+<!doctype html><html lang="en"><head><meta charset="utf-8"><meta name="viewport" content="width=device-width,initial-scale=1,shrink-to-fit=no,user-scalable=no,viewport-fit=cover"><meta name="theme-color" content="#000000"><meta content="IE=Edge" http-equiv="X-UA-Compatible"><title>VK Mini App Boilerplate</title><link href="/VKMA_Name/static/css/2.1e562f28.chunk.css" rel="stylesheet"><link href="/VKMA_Name/static/css/main.167ce813.chunk.css" rel="stylesheet"></head><body><div id="root"></div><script>!function(e){function r(r){for(var n,i,p=r[0],a=r[1],l=r[2],c=0,s=[];c<p.length;c++)i=p[c],Object.prototype.hasOwnProperty.call(o,i)&&o[i]&&s.push(o[i][0]),o[i]=0;for(n in a)Object.prototype.hasOwnProperty.call(a,n)&&(e[n]=a[n]);for(f&&f(r);s.length;)s.shift()();return u.push.apply(u,l||[]),t()}function t(){for(var e,r=0;r<u.length;r++){for(var t=u[r],n=!0,p=1;p<t.length;p++){var a=t[p];0!==o[a]&&(n=!1)}n&&(u.splice(r--,1),e=i(i.s=t[0]))}return e}var n={},o={1:0},u=[];function i(r){if(n[r])return n[r].exports;var t=n[r]={i:r,l:!1,exports:{}};return e[r].call(t.exports,t,t.exports,i),t.l=!0,t.exports}i.m=e,i.c=n,i.d=function(e,r,t){i.o(e,r)||Object.defineProperty(e,r,{enumerable:!0,get:t})},i.r=function(e){"undefined"!=typeof Symbol&&Symbol.toStringTag&&Object.defineProperty(e,Symbol.toStringTag,{value:"Module"}),Object.defineProperty(e,"__esModule",{value:!0})},i.t=function(e,r){if(1&r&&(e=i(e)),8&r)return e;if(4&r&&"object"==typeof e&&e&&e.__esModule)return e;var t=Object.create(null);if(i.r(t),Object.defineProperty(t,"default",{enumerable:!0,value:e}),2&r&&"string"!=typeof e)for(var n in e)i.d(t,n,function(r){return e[r]}.bind(null,n));return t},i.n=function(e){var r=e&&e.__esModule?function(){return e.default}:function(){return e};return i.d(r,"a",r),r},i.o=function(e,r){return Object.prototype.hasOwnProperty.call(e,r)},i.p="/VKMA_Name/";var p=this["webpackJsonpmini-app"]=this["webpackJsonpmini-app"]||[],a=p.push.bind(p);p.push=r,p=p.slice();for(var l=0;l<p.length;l++)r(p[l]);var f=a;t()}([])</script><script src="/VKMA_Name/static/js/2.50fe892b.chunk.js"></script><script src="/VKMA_Name/static/js/main.09a9d364.chunk.js"></script></body></html>

diff --git a/precache-manifest.dd5ea8ab420f6d5b4d245fdc5da9dc99.js b/precache-manifest.dd5ea8ab420f6d5b4d245fdc5da9dc99.js
@@ -1,6 +1,6 @@
 self.__precacheManifest = (self.__precacheManifest || []).concat([
   {
-    "revision": "f57ca552db4f486e89e55a25cc2c5d0e",
+    "revision": "bb121e66b8a52a6658d929c90a78e5eb",
     "url": "/VKMA_Name/index.html"
   },
   {
@@ -8,8 +8,8 @@ self.__precacheManifest = (self.__precacheManifest || []).concat([
     "url": "/VKMA_Name/static/css/2.1e562f28.chunk.css"
   },
   {
-    "revision": "6949a325bbaeca6edb60",
-    "url": "/VKMA_Name/static/css/main.4a70da68.chunk.css"
+    "revision": "a8cff135fa911c55b52f",
+    "url": "/VKMA_Name/static/css/main.167ce813.chunk.css"
   },
   {
     "revision": "4186533f360ab8a2154a",
@@ -20,8 +20,8 @@ self.__precacheManifest = (self.__precacheManifest || []).concat([
     "url": "/VKMA_Name/static/js/2.50fe892b.chunk.js.LICENSE.txt"
   },
   {
-    "revision": "6949a325bbaeca6edb60",
-    "url": "/VKMA_Name/static/js/main.72ae3b3a.chunk.js"
+    "revision": "a8cff135fa911c55b52f",
+    "url": "/VKMA_Name/static/js/main.09a9d364.chunk.js"
   },
   {
     "revision": "bf2ecfc0dcd206fa6f29",

diff --git a/static/css/main.167ce813.chunk.css b/static/css/main.167ce813.chunk.css
@@ -1,0 +1,2 @@
+html{background-image:url(https://valeryshestakovv.github.io/VKMA_Name/background.jpg);background-position:50%;background-repeat:no-repeat;background-size:cover}.base_container{width:100%;height:100%;color:#224254;letter-spacing:.6pt;position:relative}.container{top:57%;transform:translate(-50%,-50%)}.container,.result-container{position:absolute;left:50%;width:348px}.result-container{top:10%;transform:translate(-50%)}.result-charaster-container{top:25%}.text-center{text-align:center}.p-t-2{padding-top:2rem}.question_box .question_text{position:relative;z-index:2;font-size:18px;font-weight:600;padding-top:7.5rem;padding-bottom:.2rem}.question_box .group_name{position:relative;z-index:2;font-size:12px}.question_box img{position:absolute;width:350px;top:-160px;left:0}.image-result{width:300px;position:absolute;left:50%;bottom:0;transform:translate(-50%)}.div-center{display:table;margin:0 auto}.div-answer-buttons{margin-top:1rem}
+/*# sourceMappingURL=main.167ce813.chunk.css.map */

diff --git a/service-worker.js b/service-worker.js
@@ -14,7 +14,7 @@
 importScripts("https://storage.googleapis.com/workbox-cdn/releases/4.3.1/workbox-sw.js");
 
 importScripts(
-  "/VKMA_Name/precache-manifest.7ed2abd551a858e0b7b3f7e169bdb12b.js"
+  "/VKMA_Name/precache-manifest.dd5ea8ab420f6d5b4d245fdc5da9dc99.js"
 );
 
 self.addEventListener('message', (event) => {
